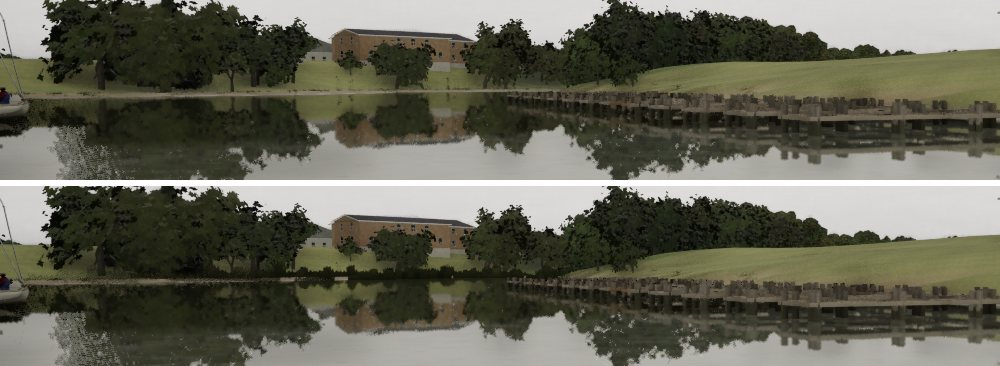
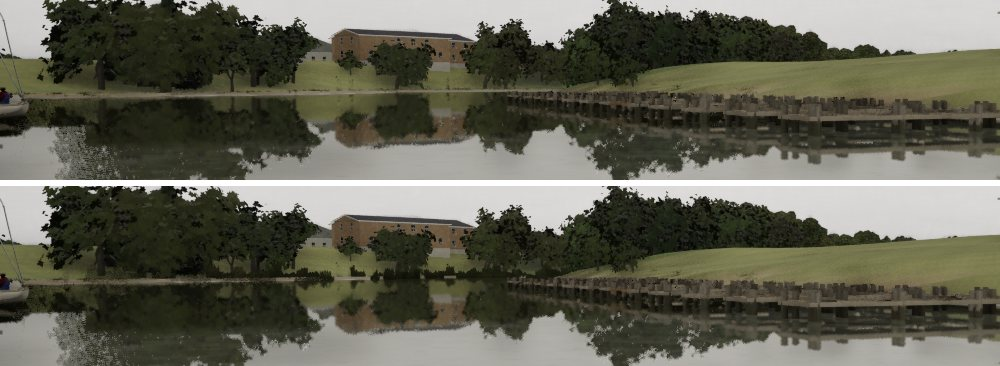
Far shore relief: thinner on the coasts, broken and lit
#285 Mac gate: two strips per node on the coasts' 10 m grid put 901,942
over Galveston. Now about two nodes in three on the lake and one in four,
in patches, on the 10 m grids (RayHubbard 77,968, Galveston 144,050, Gulf
10,016, TexasCoast 43,080). The strip read near-black and continuous, a
low hedge: its foot is lit a little and M_FarWeed cuts each run into
clumps with gaps. GPU cost within noise.

diff --git a/Source/SailingSim/Private/LakeTerrainActor.cpp b/Source/SailingSim/Private/LakeTerrainActor.cpp
@@ -1151,10 +1151,11 @@ void ALakeTerrainActor::PlaceReeds()
 			{
 				Scatter(3, 1, 0.0, 0.004, 0.8f, 1.6f, 13);
 			}
-			// The far stand-in: one ragged strip along the shore at each waterline node (two on the coasts' 10 m grid), turned
-			// along the bank (across the slope), mostly continuous with a few gaps. (Nodes from 0.6 m under the water to 1.6 m up: on a
+			// The far stand-in: a ragged strip along the shore at a waterline node, turned along the bank (across the slope), in
+			// broken runs: about two nodes in three on the lake, and on the coasts' 10 m grid one in four, in patches (#285's
+			// Mac gate: two per node over Galveston's marshes was 900,000 strips for a few pixels). (Nodes from 0.6 m under the water to 1.6 m up: on a
 			// steep bank the 5 m grid has no node near the waterline itself.)
-			if (Meshes[4] && H >= -0.6 && H <= 1.6 && Slope <= 2.0 && Wet3 < -0.05 && (Hh >> 4 & 1023) <= (Patch >= -0.3 ? 900u : 640u))
+			if (Meshes[4] && H >= -0.6 && H <= 1.6 && Slope <= 2.0 && Wet3 < -0.05 && (Hh >> 4 & 1023) <= (bCoarse ? (Patch >= 0.0 ? 400u : 120u) : (Patch >= -0.3 ? 760u : 420u)))
 			{
 				const double Gx = T.NodeHeight(R + 1, C) - T.NodeHeight(R - 1, C), Gy = T.NodeHeight(R, C + 1) - T.NodeHeight(R, C - 1);
 				const double Along = FMath::Atan2(Gy, Gx) + 0.5 * UE_DOUBLE_PI + (((Hh >> 14) & 255) / 255.0 - 0.5) * 0.5;
@@ -1162,9 +1163,8 @@ void ALakeTerrainActor::PlaceReeds()
 				const double Gm = FMath::Sqrt(Gx * Gx + Gy * Gy), Rise = Gm / (2.0 * T.GetCell());
 				const double Shift = Rise > 1e-3 ? FMath::Clamp((H - 0.05) / Rise, -1.5 * T.GetCell(), 1.5 * T.GetCell()) : 0.0;
 				const double Wx = X - (Gm > 1e-6 ? Gx / Gm : 0.0) * Shift, Wy = Y - (Gm > 1e-6 ? Gy / Gm : 0.0) * Shift;
-				for (int32 K = 0; K < (bCoarse ? 2 : 1); ++K)
 				{
-					const double Off = bCoarse ? (K - 0.5) * 5.0 : (((Hh >> 22) & 255) / 255.0 - 0.5) * 1.5;
+					const double Off = (((Hh >> 22) & 255) / 255.0 - 0.5) * (bCoarse ? 4.0 : 1.5);
 					const double Px = Wx + FMath::Cos(Along) * Off, Py = Wy + FMath::Sin(Along) * Off;
 					const float Len = 1.0f + 0.3f * ((Hh >> 8) & 255) / 255.f, Tall = 0.7f + 0.6f * ((Hh >> 24) & 255) / 255.f;
 					Out[4].Add(FTransform(FRotator(0.f, float(FMath::RadiansToDegrees(Along)), 0.f), FVector(Px, Py, FMath::Max(T.HeightAt(Px, Py), -0.08) - 0.02) * CmPerMeter, FVector(Len, 1.f, Tall)));

diff --git a/scripts/make_materials.py b/scripts/make_materials.py
@@ -974,9 +974,14 @@ qf = qf * qf * (3.0 - 2.0 * qf);
 float a00 = frac(sin(dot(qi, float2(12.99, 78.23))) * 43758.5), a10 = frac(sin(dot(qi + float2(1, 0), float2(12.99, 78.23))) * 43758.5);
 float a01 = frac(sin(dot(qi + float2(0, 1), float2(12.99, 78.23))) * 43758.5), a11 = frac(sin(dot(qi + float2(1, 1), float2(12.99, 78.23))) * 43758.5);
 float clump = lerp(lerp(a00, a10, qf.x), lerp(a01, a11, qf.x), qf.y);
-float3 green = lerp(float3(0.035, 0.048, 0.018), float3(0.085, 0.10, 0.04), h);
-float3 straw = lerp(float3(0.06, 0.055, 0.03), float3(0.17, 0.15, 0.085), h);
-Fade = smoothstep(120.0, 170.0, length(WP - Cam) * 0.01);
+// (#285's Mac gate: near-black at the foot and unbroken, it read as a low hedge. The foot is lit now, a little, and the run
+// breaks into clumps a metre or two long with gaps between: a weed margin is broken and lets the water show through.)
+float3 green = lerp(float3(0.05, 0.064, 0.028), float3(0.09, 0.105, 0.045), h);
+float3 straw = lerp(float3(0.075, 0.068, 0.038), float3(0.17, 0.15, 0.085), h);
+float2 g = p.xy / 1.7 + float2(clump * 0.8, 0.0);
+float gn = frac(sin(dot(floor(g), float2(41.3, 289.1))) * 43758.5);
+float gap = step(0.3, gn);
+Fade = smoothstep(120.0, 170.0, length(WP - Cam) * 0.01) * gap;
 return lerp(green, straw, smoothstep(0.55, 0.9, clump) * 0.7);
 """
     c = custom(mat, code, ["WP", "Cam", "WaterZ"], unreal.CustomMaterialOutputType.CMOT_FLOAT3, -500, 0,

diff --git a/docs/far-shore-relief/README.md b/docs/far-shore-relief/README.md
@@ -8,15 +8,16 @@ gives the margin relief, not colour.
 - **`SM_Reeds_4`** (`Tools/blender/build_reeds.py` `far_margin`, 344 triangles): three crossed cards 4.5 m long with
   jagged tops (each peak its own height, 0.25 to 1.25 m), and two crossed pairs of taller shrub cards (1.2 to 1.8 m,
   buttonbush and water willow). One slot, `FarWeed`.
-- **`M_FarWeed`** (`make_materials.py` `build_far_weed`): two-sided, matte (0.92), dark at the foot and olive to straw at
-  the tips in 3 m clumps. It dithers in from 120 to 170 m from the camera.
+- **`M_FarWeed`** (`make_materials.py` `build_far_weed`): two-sided, matte (0.92), shaded at the foot and olive to straw at
+  the tips in 3 m clumps. It dithers in from 120 to 170 m from the camera and is cut into clumps a metre or two long,
+  with gaps between (about 30%).
 - **Placement** (`LakeTerrainActor::PlaceReeds`):
-  - one strip per waterline grid node (two on the coasts' 10 m grid), turned along the bank, mostly continuous with a few
-    gaps;
+  - a strip at about two waterline nodes in three on the lake's 5 m grid, and one in four, in patches, on the coasts'
+    10 m grid, turned along the bank;
   - each strip slides down (or up) the slope to the waterline, because on a steep bank the 5 m grid has no node near the
     water itself;
   - drawn to 1.1 km, unshadowed, out of distance fields and ray tracing, on High and Ultra only;
-  - 36,846 strips on the lake;
+  - counts per world: RayHubbard 77,968, Galveston 144,050, Gulf 10,016, TexasCoast 43,080;
   - `-SailingNoFarWeed` turns them off (the "before" stills).
 
 The brief asked for the strips from 250 m out. A debug pass coloured the strips by distance, and the banks in g5-shore
@@ -24,24 +25,33 @@ turned out to be 150 to 250 m off, inside the near plants' band. The near bank g
 and left the line clean. So the strips come in at 120 to 170 m instead, where they no longer read as cards; nearer, the
 real plants stand alone.
 
+## Mac gate on #285
+
+The first version put two strips per node on the coasts' 10 m grid: 901,942 over Galveston's marshes for a few
+pixels. It read near-black at the foot and almost continuous, like a low hedge. This version:
+
+- thins the strips as above;
+- lights the foot a little (0.05, 0.064, 0.028 where it had been 0.035, 0.048, 0.018);
+- breaks each run into clumps with gaps, so the water and the bank show between them.
+
 ## Cost
 
 GPU total (1920x1080, the sum of the bench's GPU slices), before (`-SailingNoFarWeed`) and after:
 
 | View | Tier | Before | After |
 | --- | --- | --- | --- |
-| g5-shore | Medium | 11.55 ms | 11.28 ms (not drawn on Medium) |
-| g5-shore | High | 14.52 ms | 14.29 ms |
-| g5-shore | Ultra | 19.24 ms | 19.30 ms |
-| cove | Medium | 11.62 ms | 11.51 ms |
-| cove | High | 14.05 ms | 13.97 ms |
-| cove | Ultra | 17.43 ms | 17.40 ms |
+| g5-shore | Medium | 11.54 ms | 11.35 ms (not drawn on Medium) |
+| g5-shore | High | 14.21 ms | 14.24 ms |
+| g5-shore | Ultra | 19.40 ms | 18.63 ms |
+| cove | Medium | 11.43 ms | 10.85 ms |
+| cove | High | 13.60 ms | 13.66 ms |
+| cove | Ultra | 17.31 ms | 17.01 ms |
 
 The differences are within run-to-run noise.
 
 ## Stills (High, uncooked; before above, after below)
 
-The g5-shore far bank, enlarged: the pale lawn-meets-water line is broken by a dark, ragged weed edge.
+The g5-shore far bank, enlarged: the pale lawn-meets-water line is broken by clumps of weed with gaps between them.
 
 ![g5-shore bank](g5-shore-bank.jpg)
 ![g5-shore](g5-shore.jpg)
